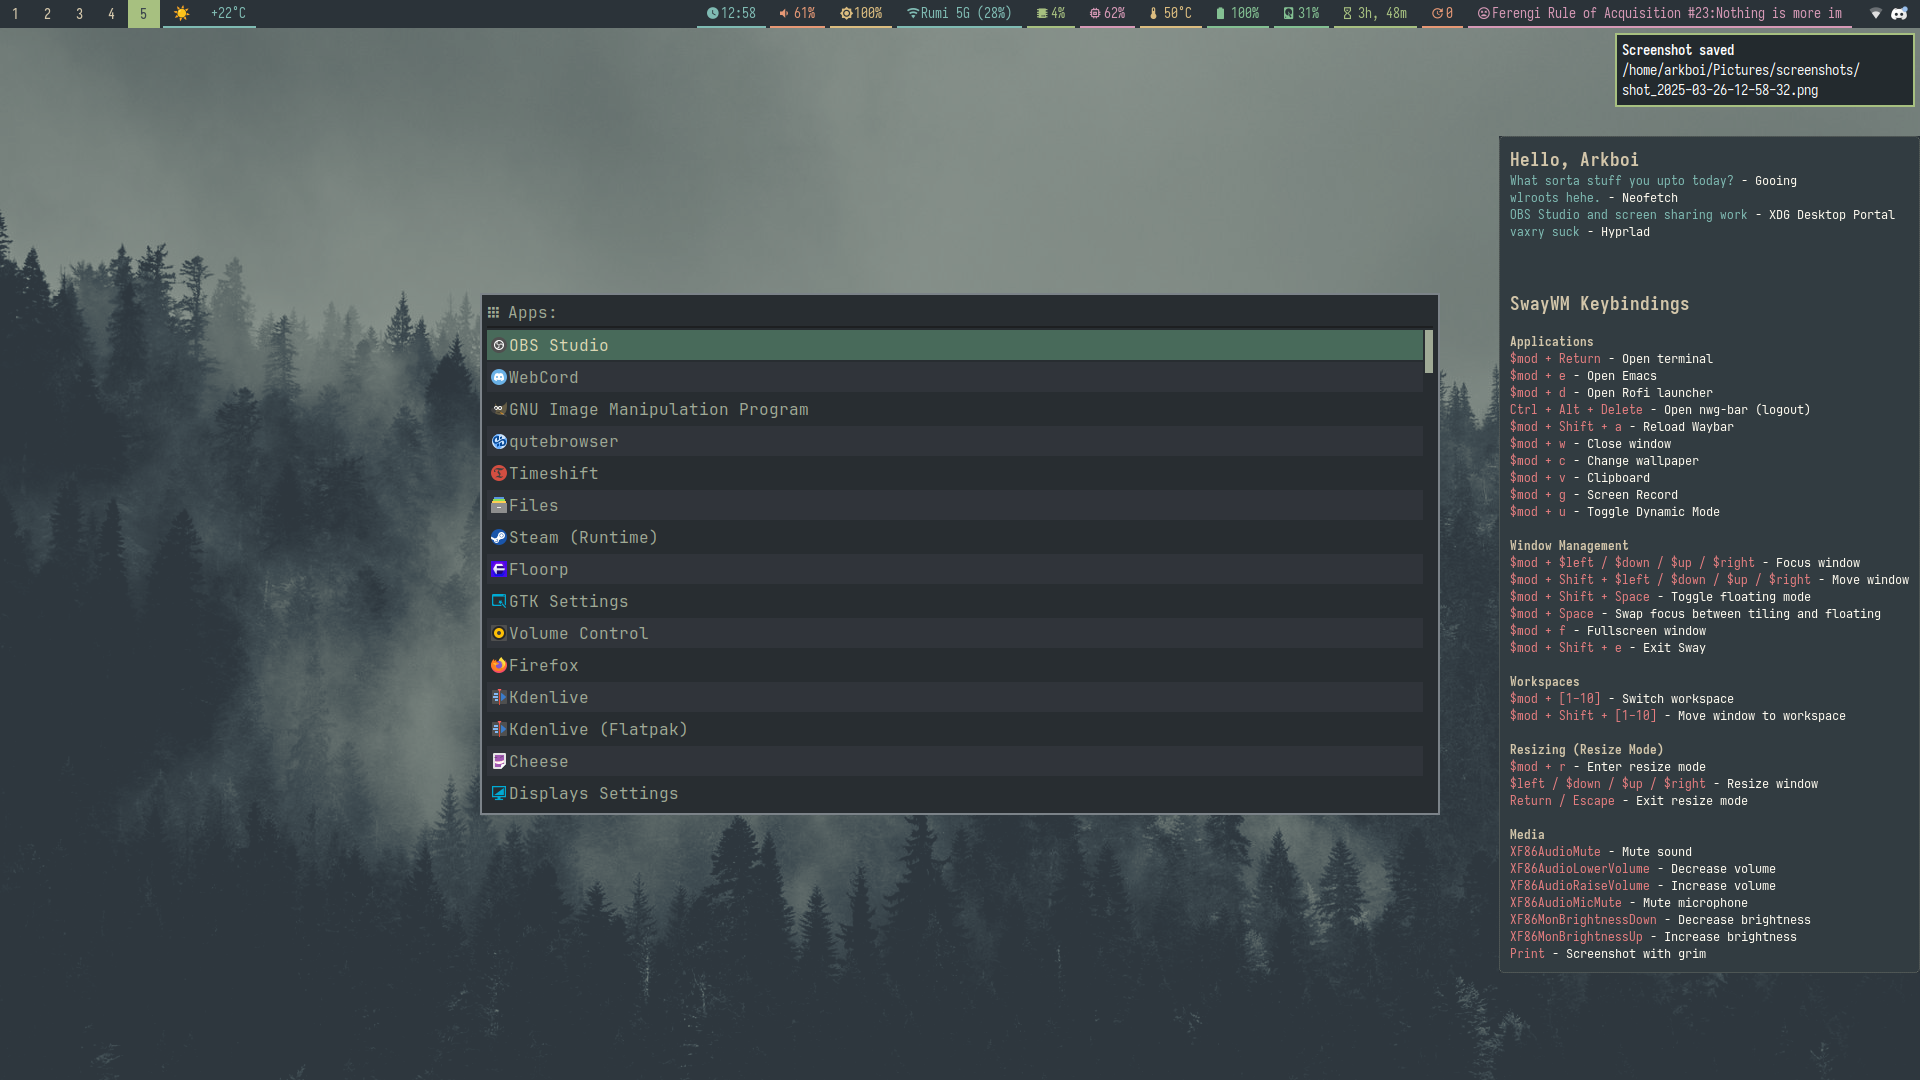
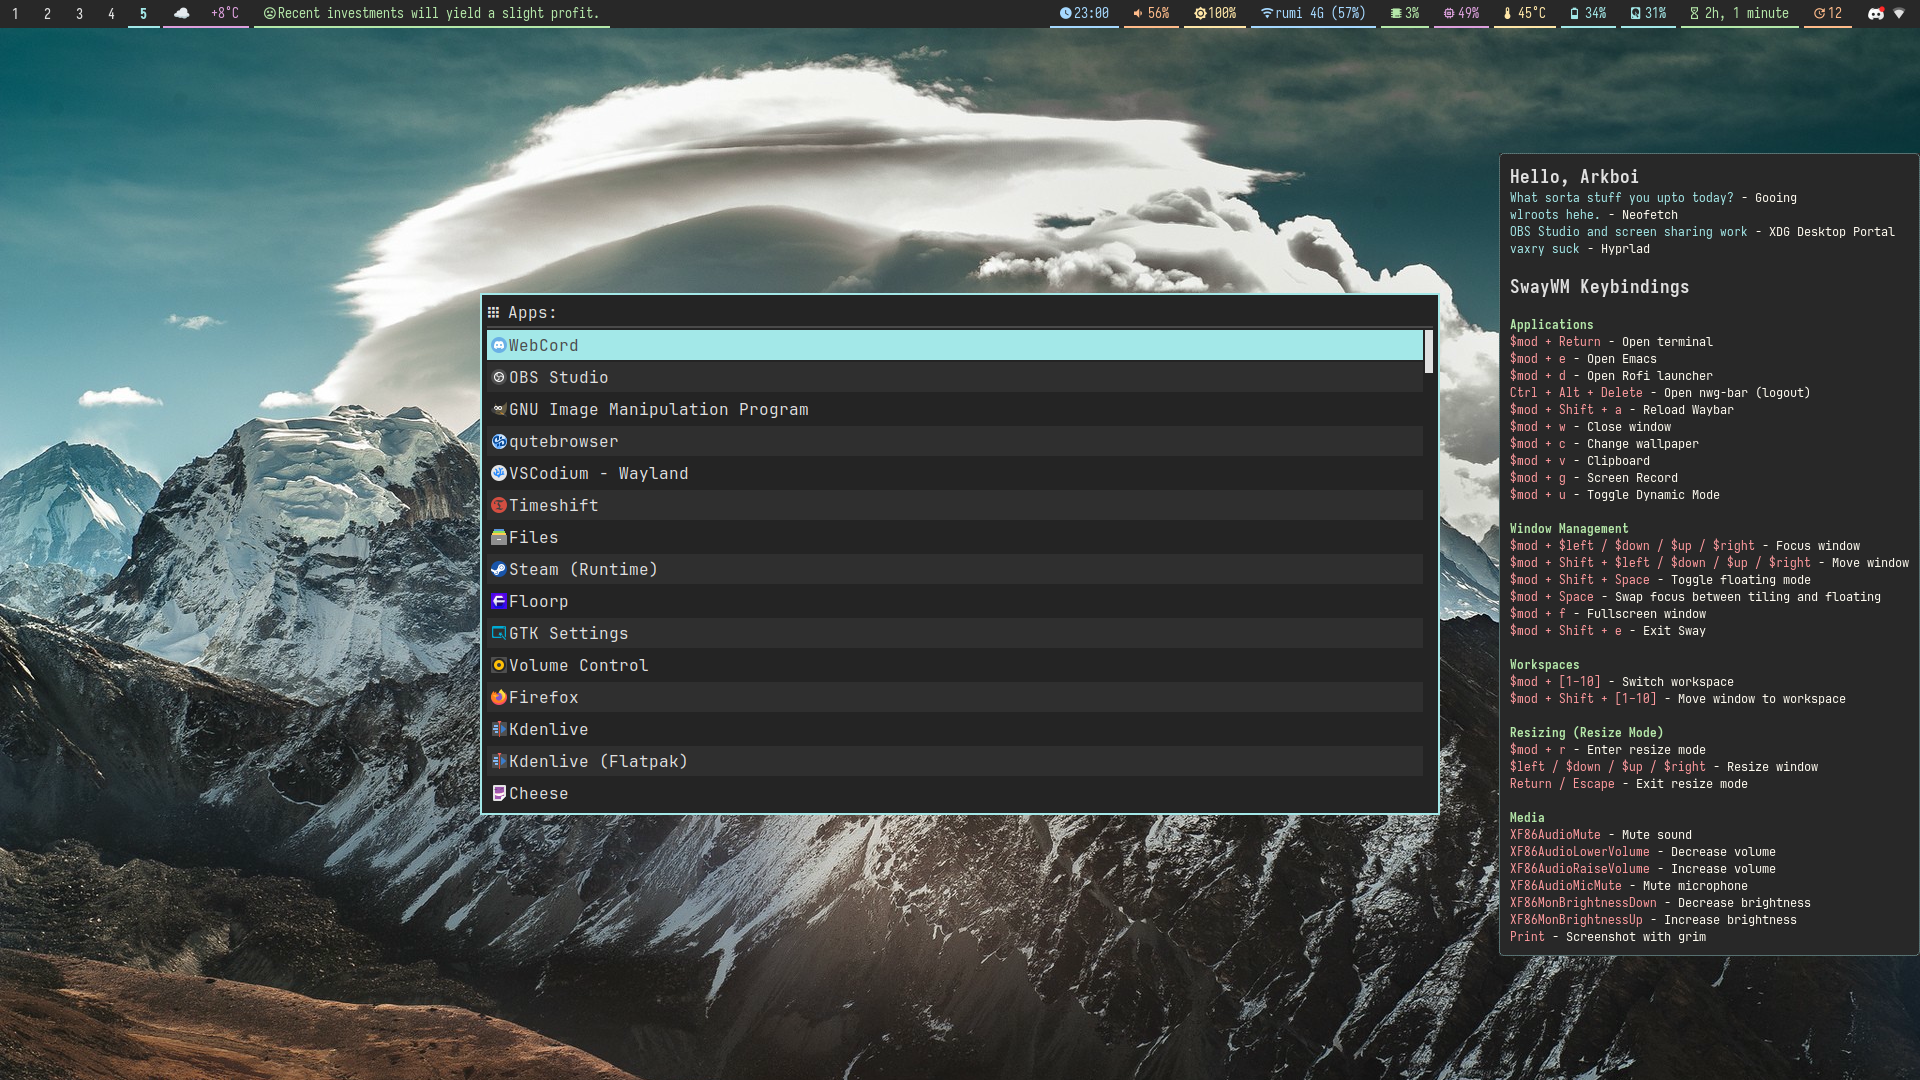
README.md updates

diff --git a/README.md b/README.md
@@ -4,7 +4,8 @@ These are my SwayWM Configuration files. I use these with Arco Linux, but it is 
 
 ## 🥭 Notable Features 🥭
 
-- Everforest Dark colors.
+- Pastel TTY colors.
+- Changing Colors are easy!
 - Rofi app launcher
 - Simple designs
 - Keybindings widget
@@ -23,7 +24,7 @@ Main Branch (*Grimy Grove*)
 0- Install packages
 
 ``` shell
-sudo pacman -S sway waybar rofi-wayland mako kitty nwg-bar fortune-mod swayidle
+sudo pacman -S sway waybar rofi-wayland mako kitty nwg-bar fortune-mod swayidle xdg-desktop-portal xdg-desktop-portal-wlr
 ```
 
 1 - Clone the repository:
